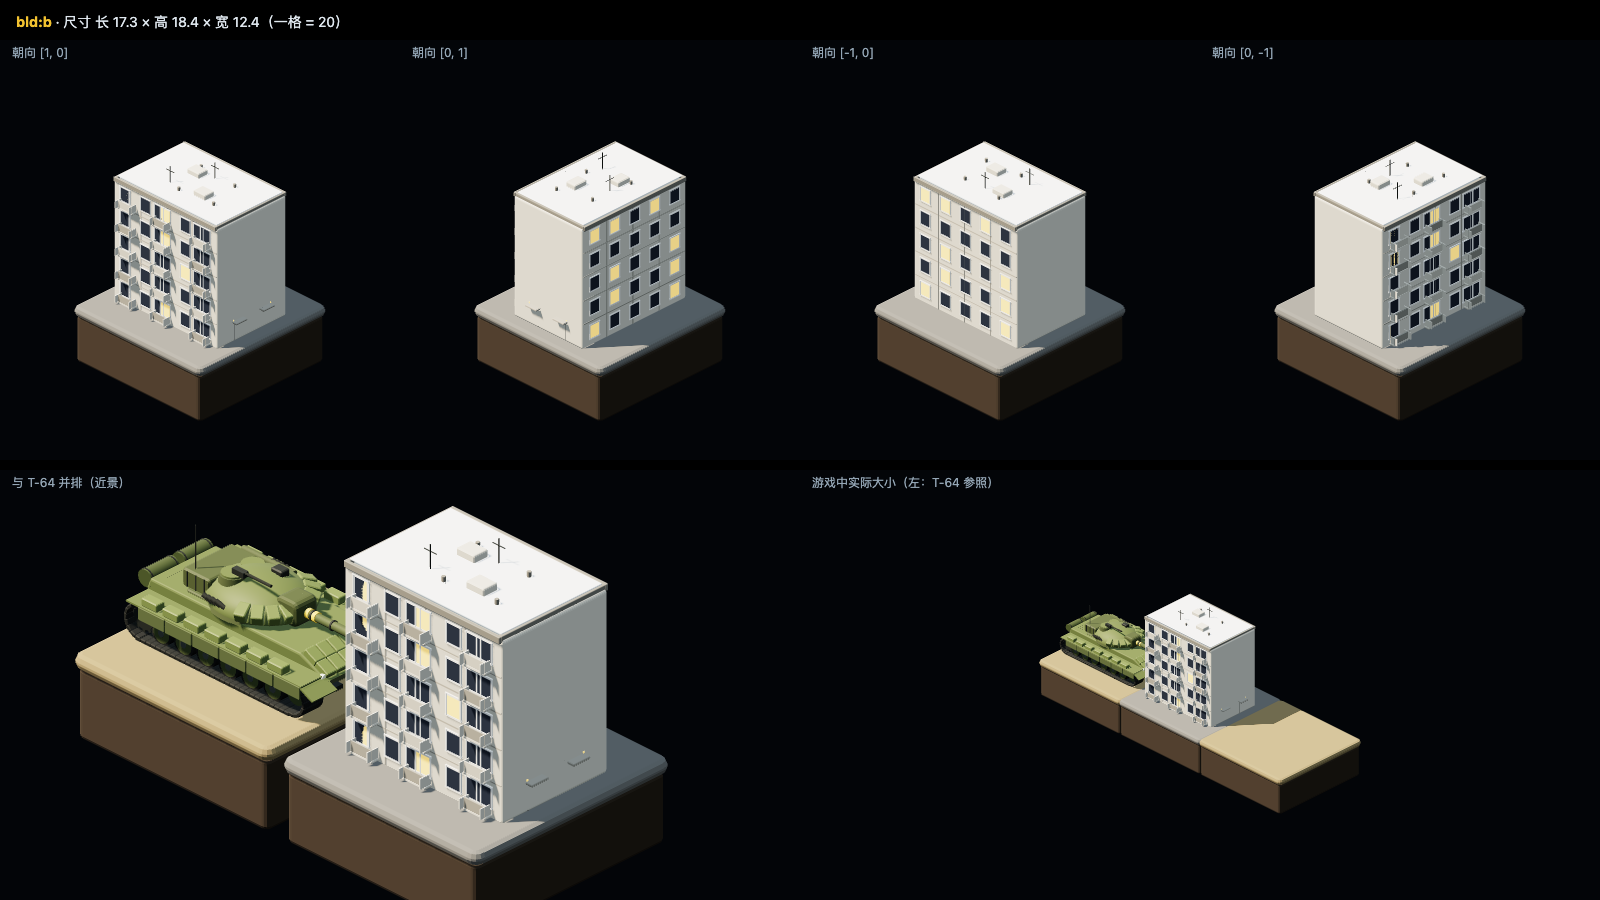
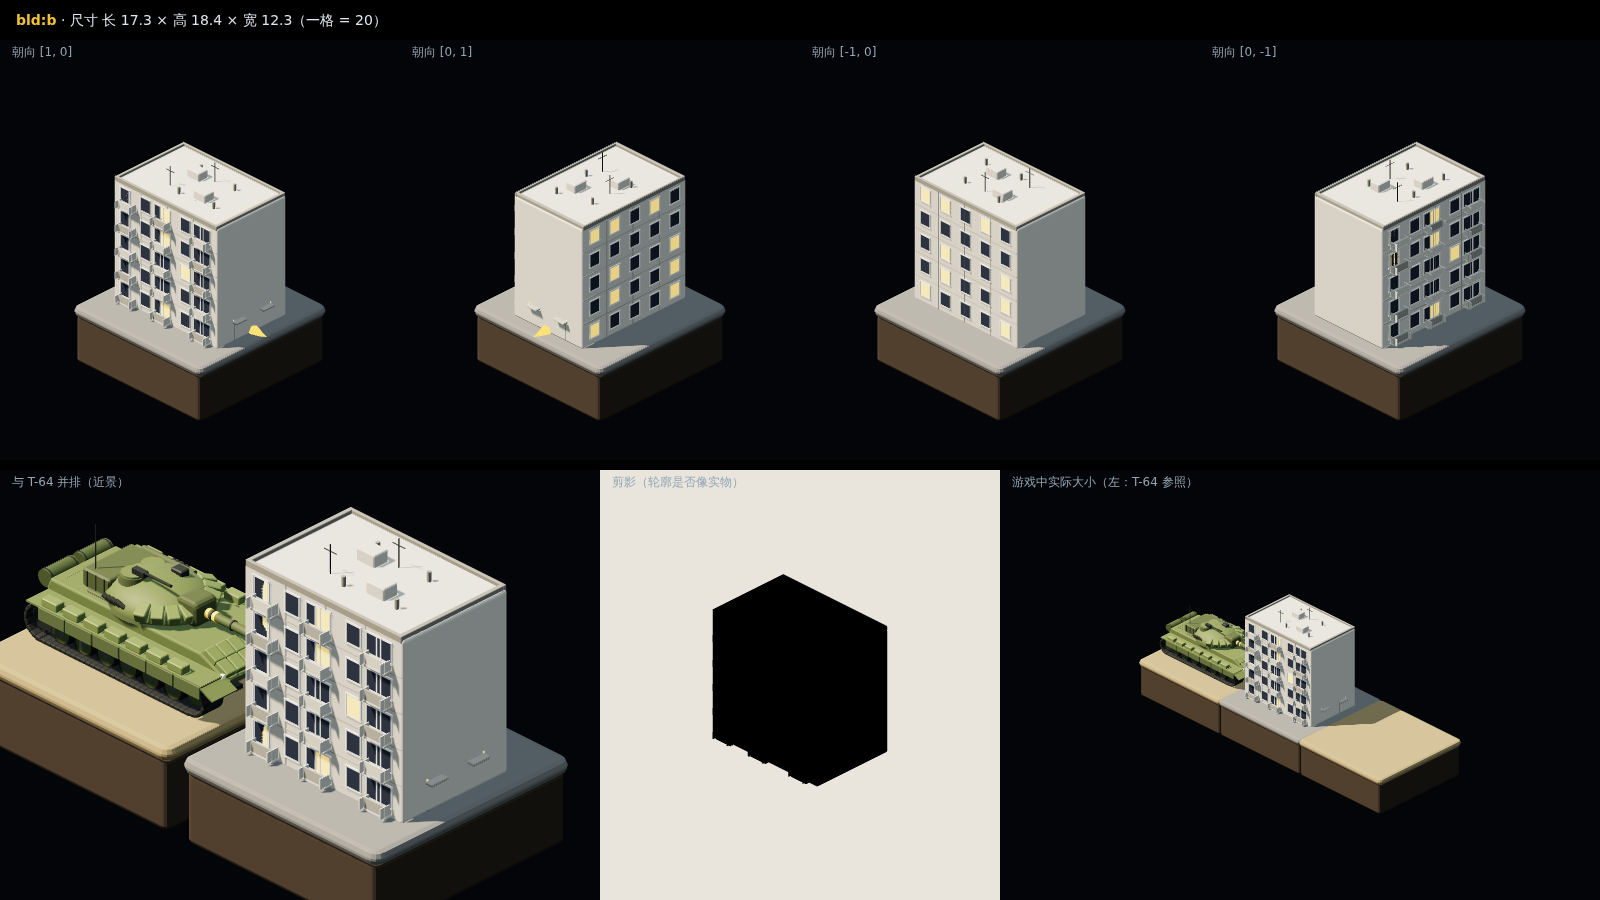
T-30: reviewer takes over the damaged Khrushchyovka (stepped collapse, gutted floors, hanging slabs, rubble heap); tone down walls and roof
Claude-Session: https://claude.ai/code/session_01AwfH6u4m5DCVxaiMRmbgB9

diff --git a/game/js/models3d.js b/game/js/models3d.js
@@ -994,50 +994,49 @@ MODEL3D.raptor = m3Raptor;
 // ---------- T-30 赫鲁晓夫楼 bld:b ----------
 function m3BldB(seed, dmg) {
   const B = new THREE.Group();
-  const WALL = mat3('#cbc5b5', 0.85), SEAM = mat3('#9d978a', 0.85), ROOFC = mat3('#7d796f', 0.7), FR = mat3('#e8e4da', 0.8), SNOW = mat3('#eef2f4', 0.75);
+  const WALL = mat3('#bdb7a8', 0.85), SEAM = mat3('#9d978a', 0.85), ROOFC = mat3('#7d796f', 0.7), FR = mat3('#d8d2c4', 0.8), TAR = mat3('#5f5c56', 0.95);
   const LIT = mat3('#f6d57a', 0.25, 0, { emissive: lin('#f0ad3a'), emissiveIntensity: 0.8 }), DKW = mat3('#2d3440', 0.3);
   const RAIL1 = mat3('#b9b3a4', 0.8), RAIL2 = mat3('#8e8a7e', 0.8), DKS = mat3('#2d302a', 0.6, 0.3);
-  const FL = 3.1, FH = 15.5;
-  const breakX = dmg ? -4.2 : -8.15, w1 = 8.15 - breakX, cx1 = (breakX + 8.15) / 2;
-  function win(x, y, z, ry, lit) {
+  const INT = mat3('#4a433a', 0.95), SOOT = mat3('#1f1c19', 1), RUB = mat3('#8f897c', 0.95), RUBD = mat3('#6a655b', 0.95);
+  const FL = 3.1, FH = 15.5, X1 = 8.15;
+  // where each floor starts along x. Intact: the whole length. Damaged: the -x end is bitten off in a
+  // ragged diagonal, the upper floors missing more than the lower ones.
+  const ends = [0, 1, 2, 3, 4].map(f => dmg ? [-7.7, -6.9, -5.4, -3.4, -1.2][f] + (f ? (hash(seed, f, 30) - 0.5) * 0.8 : 0) : -X1);
+  const topX = ends[4];
+  function win(x, y, z, ry, lit, burnt) {
     const W = new THREE.Group(); W.position.set(x, y, z); W.rotation.y = ry; B.add(W);
     part(W, new THREE.BoxGeometry(1.45, 1.65, 0.1), lit ? LIT : DKW, 0, 0, 0);
-    for (const [w, h, dx, dy] of [[1.75, 0.14, 0, 0.9], [1.75, 0.14, 0, -0.9], [0.14, 1.85, -0.76, 0], [0.14, 1.85, 0.76, 0]]) part(W, new THREE.BoxGeometry(w, h, 0.13), FR, dx, dy, 0.02);
+    for (const [w, h, dx, dy] of [[1.75, 0.14, 0, 0.9], [1.75, 0.14, 0, -0.9], [0.14, 1.85, -0.76, 0], [0.14, 1.85, 0.76, 0]]) part(W, new THREE.BoxGeometry(w, h, 0.13), burnt ? DKS : FR, dx, dy, 0.02);
   }
-  // 1. main body with a small bevel; the damaged end keeps only the lower three floors
-  part(B, rbox(w1, FH, 11, 0.18), WALL, cx1, FH / 2, 0);
+  // 1. main body, floor by floor so the damaged end can step down
+  if (!dmg) part(B, rbox(2 * X1, FH, 11, 0.18), WALL, 0, FH / 2, 0);
+  else for (let f = 0; f < 5; f++) { const w = X1 - ends[f]; part(B, rbox(w, FL, 11, 0.1), WALL, (X1 + ends[f]) / 2, f * FL + FL / 2, 0); }
   // 2. panel seams: horizontal strips at each floor line, a few vertical strips
-  for (let f = 1; f <= 5; f++) part(B, new THREE.BoxGeometry(w1, 0.11, 11.05), SEAM, cx1, f * FL, 0);
-  for (const vx of [-4.0, 0.2, 4.4]) part(B, new THREE.BoxGeometry(0.1, FH, 11.08), SEAM, vx, FH / 2, 0);
-  // 3+4. windows and balconies, floor by floor
-  const winXs = [];
-  for (let k = 0; k < 5; k++) winXs.push(breakX + 1.7 + k * (w1 - 3.4) / 4);
+  for (let f = 1; f <= 5; f++) { const x0 = ends[f - 1]; part(B, new THREE.BoxGeometry(X1 - x0, 0.11, 11.05), SEAM, (X1 + x0) / 2, f * FL, 0); }
+  for (const vx of [-4.0, 0.2, 4.4]) {
+    const n = ends.filter(e => e < vx - 0.2).length;
+    if (n) part(B, new THREE.BoxGeometry(0.1, n * FL, 11.08), SEAM, vx, n * FL / 2, 0);
+  }
+  // 3+4. windows and balconies, floor by floor. Near the break the windows are dark and the frames burnt.
+  const winXs = [-6.45, -3.225, 0, 3.225, 6.45];
+  const near = (x, f) => dmg && (x < ends[f] + 3.6 || (f >= 2 && x < topX + 3));
   for (let f = 0; f < 5; f++) {
-    const y = f * FL + 1.75, gone = dmg && f >= 3;
+    const y = f * FL + 1.75;
     winXs.forEach((wx, wi) => {
-      if (gone) return;
-      const dark = dmg && wx < breakX + 3.4;
-      win(wx, y, 5.56, 0, !dark && hash(seed, f, wi) < 0.34);
-      win(wx, y, -5.56, Math.PI, !dark && hash(seed, f + 5, wi) < 0.34);
+      if (wx - 0.9 < ends[f]) return;
+      const dark = near(wx, f);
+      win(wx, y, 5.56, 0, !dark && hash(seed, f, wi) < 0.34, dark);
+      win(wx, y, -5.56, Math.PI, !dark && hash(seed, f + 5, wi) < 0.34, dark);
     });
-    for (const wx of [breakX + 2.2, breakX + w1 / 2 - 0.4, breakX + w1 - 2.2]) {
-      if (gone) continue;
+    for (const wx of [-5.95, -0.4, 5.95]) {
+      if (wx - 1.3 < ends[f]) continue;
       const yy = f * FL + 0.12;
       part(B, rbox(2.3, 0.16, 1.35, 0.06, 1), WALL, wx, yy + 0.05, 5.55);
       part(B, new THREE.BoxGeometry(2.3, 0.9, 0.12), hash(seed, f, wx) < 0.5 ? RAIL1 : RAIL2, wx, yy + 0.6, 6.15);
       for (const dx of [-1.1, 1.1]) part(B, new THREE.BoxGeometry(0.12, 0.9, 1.3), WALL, wx + dx, yy + 0.6, 5.98);
-      win(wx - 0.6, y, 5.56, 0, false);
+      win(wx - 0.6, y, 5.56, 0, false, near(wx, f));
     }
-    if (!gone) { win(7.9, y, 2.3, HALF_PI, hash(seed, f, 7) < 0.34); win(7.9, y, -2.3, HALF_PI, hash(seed, f, 8) < 0.34); }
-  }
-  if (dmg) for (const [sx0, sx1, sh] of [[-8.15, -6.15, 9.3], [-6.15, -5.15, 6.2], [-5.15, -4.2, 8.3]]) {
-    const w = sx1 - sx0, cx = (sx0 + sx1) / 2, hh = sh + (hash(seed, sx0, 20) - 0.5) * 1.6;
-    part(B, rbox(w, hh, 11, 0.14), WALL, cx, hh / 2, 0);
-    for (let f = 0; f * FL + 1.7 < hh - 0.8; f++) {
-      win(cx, f * FL + 1.75, 5.56, 0, false);
-      win(cx, f * FL + 1.75, -5.56, Math.PI, false);
-    }
-    part(B, new THREE.BoxGeometry(w, 0.11, 11.05), SEAM, cx, hh, 0);
+    win(7.9, y, 2.3, HALF_PI, hash(seed, f, 7) < 0.34); win(7.9, y, -2.3, HALF_PI, hash(seed, f, 8) < 0.34);
   }
   // 5. two entrances on the +x side with concrete canopies and a small lamp
   for (const dz of [2.2, -2.2]) {
@@ -1045,35 +1044,66 @@ function m3BldB(seed, dmg) {
     part(B, rbox(0.95, 0.14, 1.8, 0.05, 1), SEAM, 8.45, 2.45, dz);
     part(B, new THREE.BoxGeometry(0.12, 0.16, 0.16), LIT, 8.35, 2.7, dz + dz * 0.35);
   }
-  // 6. roof: parapet, stairwell exits, vent pipes, TV antennas, snow
-  part(B, rbox(w1, 0.5, 0.3, 0.05, 1), ROOFC, cx1, FH + 0.2, 5.6);
-  part(B, rbox(w1, 0.5, 0.3, 0.05, 1), ROOFC, cx1, FH + 0.2, -5.6);
+  // 6. roof: parapet, bitumen, stairwell exits, vent pipes, TV antennas (only over what is still standing)
+  const rw = X1 - topX, rc = (X1 + topX) / 2;
+  part(B, rbox(rw, 0.5, 0.3, 0.05, 1), ROOFC, rc, FH + 0.2, 5.4);
+  part(B, rbox(rw, 0.5, 0.3, 0.05, 1), ROOFC, rc, FH + 0.2, -5.4);
   part(B, rbox(0.3, 0.5, 11.0, 0.05, 1), ROOFC, 8.0, FH + 0.2, 0);
-  part(B, rbox(0.3, 0.5, 11.0, 0.05, 1), ROOFC, breakX + 0.15, FH + 0.2, 0);
-  part(B, rbox(w1 - 0.4, 0.09, 10.6, 0.04, 1), SNOW, cx1, FH + 0.52, 0);
-  for (const [ex, ez] of [[2.2, 1.6], [-1.8, -1.4]]) part(B, rbox(1.7, 1.15, 1.5, 0.1, 1), WALL, ex, FH + 0.55, ez);
-  for (const [vx, vz] of [[4.6, 2.4], [3.4, -2.2], [-0.6, 2.8], [-2.4, -2.6]]) part(B, cyl(0.18, 0.18, 0.85, 10), ROOFC, vx, FH + 0.6, vz);
+  if (!dmg) part(B, rbox(0.3, 0.5, 11.0, 0.05, 1), ROOFC, -8.0, FH + 0.2, 0);
+  part(B, new THREE.BoxGeometry(rw - 0.6, 0.08, 10.4), TAR, rc + (dmg ? 0.3 : 0), FH + 0.02, 0);
+  const onRoof = x => x > topX + 1.2;
+  for (const [ex, ez] of [[2.2, 1.6], [-1.8, -1.4]]) if (onRoof(ex - 0.9)) part(B, rbox(1.7, 1.15, 1.5, 0.1, 1), WALL, ex, FH + 0.55, ez);
+  for (const [vx, vz] of [[4.6, 2.4], [3.4, -2.2], [-0.6, 2.8], [-2.4, -2.6]]) if (onRoof(vx)) part(B, cyl(0.18, 0.18, 0.85, 10), ROOFC, vx, FH + 0.6, vz);
   for (const [ax, az] of [[0.4, -2.0], [-2.6, 2.2]]) {
+    if (!onRoof(ax)) continue;
     part(B, cyl(0.05, 0.05, 2.6, 6), DKS, ax, FH + 1.4, az);
     part(B, new THREE.BoxGeometry(1.3, 0.05, 0.05), DKS, ax, FH + 2.1, az);
   }
-  // 7. damaged state: ragged collapse, hanging slabs, soot, smoke streaks, rubble
-  if (dmg) {
-    for (const [sx, sz, rz, rx] of [[-4.9, 1.3, 0.55, 0.25], [-5.6, -1.2, -0.45, -0.2], [-4.5, 0.1, 0.3, -0.3]]) {
-      const sl = part(B, rbox(2.7, 0.4, 1.9, 0.06, 1), WALL, sx, 8.6, sz); sl.rotation.z = rz; sl.rotation.x = rx;
+  if (!dmg) return B;
+  // 7. damaged state
+  for (let f = 0; f < 5; f++) {
+    const e = ends[f], y0 = f * FL, top = f === 4 || ends[f + 1] - e > 0.5;
+    // the broken end of each floor: dark gutted rooms behind a torn edge
+    part(B, new THREE.BoxGeometry(0.1, FL - 0.4, 10.2), INT, e - 0.03, y0 + FL / 2, 0);
+    // ragged teeth of outer wall panel sticking out past the break, front and back, different lengths
+    for (const [z, k] of [[5.3, 0], [-5.3, 1]]) {
+      const len = 0.6 + hash(seed, f, 31 + k) * 1.4, h = FL * (0.35 + hash(seed, f, 33 + k) * 0.55);
+      part(B, new THREE.BoxGeometry(len, h, 0.4), WALL, e - len / 2, y0 + h / 2, z);
     }
-    part(B, rbox(2.9, 0.4, 2.0, 0.06, 1), WALL, -6.3, 0.22, 1.1);
-    for (const [bx, by, bz, brx, brz] of [[-4.15, 10.2, 1.1, 0.4, 0.3], [-4.25, 10.6, -0.9, -0.3, 0.2], [-5.05, 6.9, 5.56, 0.5, -0.2], [-6.2, 6.6, 5.56, -0.4, 0.25]])
-      part(B, cyl(0.05, 0.05, 1.5, 6), DKS, bx, by, bz, brx, 0, brz);
-    for (const [sx, sy, sz, w, h] of [[-4.7, 7.6, 5.6, 2.1, 2.6], [-5.4, 5.2, 5.6, 1.5, 2.0], [-5.0, 6.4, -5.6, 1.8, 2.2]])
-      part(B, rbox(w, h, 0.09, 0.05, 1), mat3('#1f1c19', 1), sx, sy, sz);
-    for (const wx of [-4.9, -5.5]) part(B, rbox(0.14, 1.7, 0.1, 0.04, 1), mat3('#1f1c19', 1), wx, 8.9, 5.62);
-    for (let k = 0; k < 10; k++) {
-      const rr = 0.4 + hash(seed, k, 21) * 0.55, a = hash(seed, k, 22) * Math.PI;
-      const rub = part(B, rbox(rr * 2.1, rr, rr * 1.6, 0.06, 1), k % 3 ? SEAM : WALL, -6.1 + Math.cos(a) * (1.0 + hash(seed, k, 23) * 2.2), rr / 2, Math.sin(a) * (1.0 + hash(seed, k, 24) * 1.6));
-      rub.rotation.y = hash(seed, k, 25) * 3; rub.rotation.z = (hash(seed, k, 26) - 0.5) * 0.4;
+    // floor slab edge at the top of the floor, cracked and jutting out a little
+    if (top) part(B, new THREE.BoxGeometry(0.7, 0.28, 10.4), SEAM, e - 0.3, y0 + FL - 0.1, 0, 0, 0, (hash(seed, f, 35) - 0.5) * 0.3);
+    // rebar out of the slab edge, bent downward
+    for (let k = 0; k < 4; k++) {
+      const z = -4 + k * 2.6 + (hash(seed, f, 36 + k) - 0.5) * 1.2, droop = 0.15 + hash(seed, f, 40 + k) * 0.5;
+      part(B, cyl(0.05, 0.05, 1.5, 5), DKS, e - 0.7, y0 + FL - 0.1 - droop * 0.5, z, 0, 0, HALF_PI - droop);
+    }
+    // gutted floor surface: a little rubble on each exposed ledge
+    if (f < 4) for (let k = 0; k < 3; k++) {
+      const x = e + 0.3 + hash(seed, f, 45 + k) * Math.max(0.2, ends[f + 1] - e - 0.6), z = (hash(seed, f, 48 + k) - 0.5) * 9, r = 0.3 + hash(seed, f, 51 + k) * 0.35;
+      part(B, rbox(r * 2, r, r * 1.5, 0.06, 1), k % 2 ? RUB : RUBD, x, y0 + FL + r / 2, z, 0, hash(seed, f, 54 + k) * 3, 0);
     }
   }
+  // two big floor slabs torn loose, hanging from the upper floors down toward the heap
+  for (const [f, z, len, rz] of [[3, 1.8, 4.6, 0.95], [4, -2.2, 3.8, 1.25]]) {
+    const G = new THREE.Group(); G.position.set(ends[f] + 0.1, f * FL + FL - 0.15, z); G.rotation.z = rz; G.rotation.x = (hash(seed, f, 60) - 0.5) * 0.3; B.add(G);
+    part(G, new THREE.BoxGeometry(len, 0.32, 3.2), SEAM, -len / 2, 0, 0);
+    for (const dz of [-1, 0.2, 1.2]) part(G, cyl(0.045, 0.045, 1.0, 5), DKS, -len - 0.05, 0, dz, 0, 0, HALF_PI);
+  }
+  // the heap of broken panels at the foot of the collapse
+  part(B, cyl(0.6, 3.2, 3.2, 7), RUB, -6.6, 1.6, 0, 0, hash(seed, 0, 61) * 3, 0).scale.set(1, 1, 1.35);
+  for (let k = 0; k < 16; k++) {
+    const a = hash(seed, k, 62) * Math.PI * 2, d = 0.8 + hash(seed, k, 63) * 2.6, r = 0.4 + hash(seed, k, 64) * 0.7;
+    const x = Math.max(-9.2, Math.min(-4.2, -6.6 + Math.cos(a) * d)), z = Math.max(-5.4, Math.min(5.4, Math.sin(a) * d * 1.5));
+    const y = Math.max(r / 2, (3.2 - d) * 0.9);
+    const piece = k % 4 === 0 ? new THREE.BoxGeometry(r * 3.4, 0.25, r * 2.4) : rbox(r * 2, r, r * 1.6, 0.06, 1);
+    part(B, piece, [WALL, RUB, RUBD, SEAM][k % 4], x, y, z, (hash(seed, k, 65) - 0.5) * 0.9, hash(seed, k, 66) * 3, (hash(seed, k, 67) - 0.5) * 0.9);
+  }
+  // soot: fire has blackened the facade around the break, streaking upward, and the roof edge
+  for (const [z, s] of [[5.58, 0], [-5.58, 1]]) for (let k = 0; k < 3; k++) {
+    const f = 1 + k, x = ends[f] + 0.9 + hash(seed, k, 70 + s) * 1.6, w = 1.4 + hash(seed, k, 72 + s) * 1.4, h = 2.2 + hash(seed, k, 74 + s) * 2;
+    part(B, new THREE.BoxGeometry(w, h, 0.06), SOOT, x, f * FL + 1.2 + h / 2 - 0.6, z);
+  }
+  part(B, new THREE.BoxGeometry(2.2, 0.12, 10.8), SOOT, topX + 1.1, FH + 0.06, 0);
   return B;
 }
 MODEL3D['bld:b'] = m3BldB;

diff --git a/docs/tasks/T-30-精修赫鲁晓夫楼.md b/docs/tasks/T-30-精修赫鲁晓夫楼.md
@@ -118,3 +118,16 @@
 5. 屋顶积雪在塌口一侧不要画。
 
 改完重新截 `bld_b-dmg.png`。
+
+### 第 2 轮
+审查提交：c74af94
+结论：审查方接手，已完成
+
+第 2 轮的残墙仍是整块、满进深的矮箱，塌口看起来还是“一栋本来就矮的楼”；碎块放在残墙里面被挡住了。按约定，第 2 轮仍不合格的卡由审查方接手。审查方重写了受损状态（完好状态保留执行方的做法）：
+- 每层单独建，塌口呈斜向阶梯：上层缺得多、下层缺得少（`ends` 数组，带 hash 抖动）；
+- 每层断口：暗色掏空的房间面、前后墙参差的残片、翘起的楼板边、向下弯的钢筋，裸露的楼面上有碎块；
+- 两块楼板从三、四层断口斜挂下来，楼脚有一大堆碎板；
+- 断口附近窗户全暗、窗框烧黑，外墙和屋顶边缘有熏黑。
+另外把墙面调暗到 `#bdb7a8`、窗框 `#d8d2c4`，屋顶的积雪改为深色沥青防水层（季节由场景负责，模型不该自带雪），整栋楼不再发白。
+
+执行方下次注意：受损状态要从“结构怎么塌”出发，每层单独建，而不是在完好模型上盖几个方块。

diff --git a/docs/tasks/BOARD.md b/docs/tasks/BOARD.md
@@ -36,7 +36,7 @@
 | T-27 | [精修 3D：米-8 运输直升机 mi8](T-27-精修米-8.md) | 已完成 | T-16 | 1 |
 | T-28 | [精修 3D：奥兰-10 侦察无人机 orlan](T-28-精修奥兰-10.md) | 已完成 | T-16 | 1 |
 | T-29 | [精修 3D：海上无人艇 magura 与 03160“猛禽”巡逻艇 raptor](T-29-精修无人艇与巡逻艇.md) | 已完成 | T-16 | 1 |
-| T-30 | [精修 3D：赫鲁晓夫楼（五层板式住宅） bld:b](T-30-精修赫鲁晓夫楼.md) | 需修改 | T-16 | 1 |
+| T-30 | [精修 3D：赫鲁晓夫楼（五层板式住宅） bld:b](T-30-精修赫鲁晓夫楼.md) | 已完成 | T-16 | 2 |
 | T-31 | [精修 3D：乡村东正教教堂 bld:c](T-31-精修教堂.md) | 需修改 | T-16 | 1 |
 | T-32 | [精修 3D：变电站 bld:S 与机库 bld:H](T-32-精修变电站与机库.md) | 需修改 | T-16 | 1 |
 | T-33 | [精修 3D：建筑废墟 bld:rubble 与伊尔平断桥 prop:bridge](T-33-精修废墟与断桥.md) | 需修改 | T-16 | 1 |
